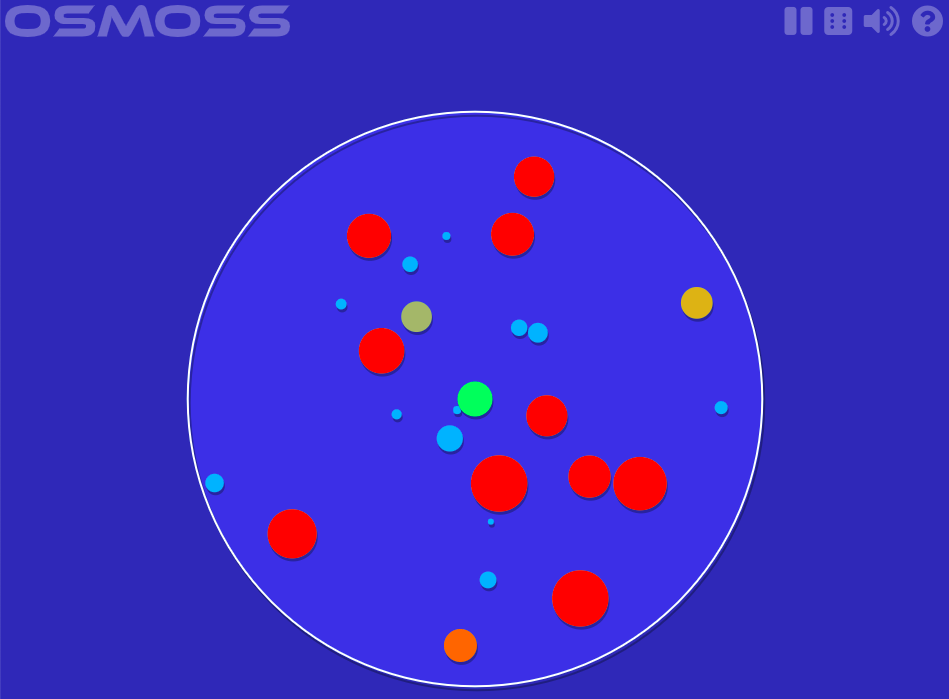
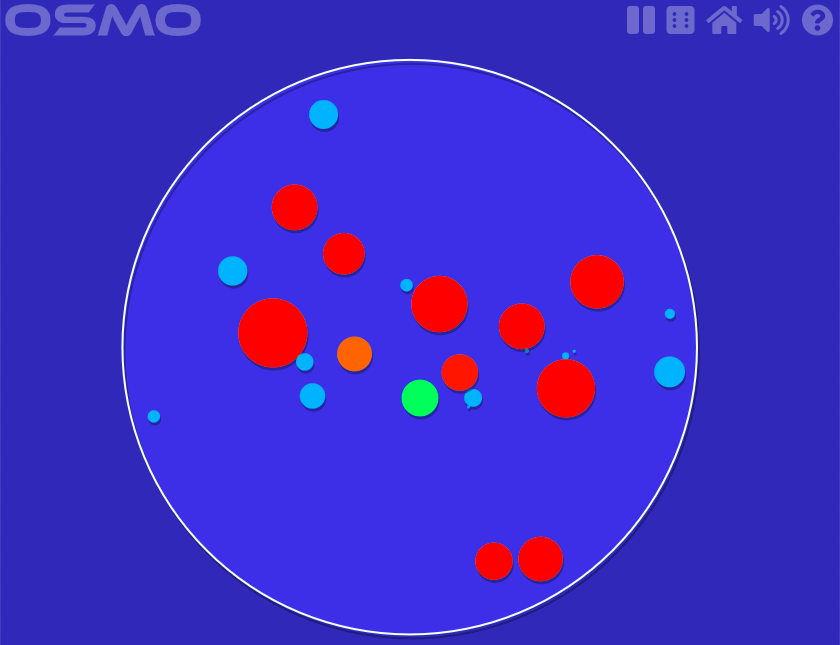
Rename osmoss -> osmo

diff --git a/public/index.html b/public/index.html
@@ -4,7 +4,7 @@
 <meta charset="UTF-8"/>
 <link rel="author" href="https://plus.google.com/105903021303554703114/"/>
 <meta name="viewport" content="width=450, user-scalable=no"/>
-<title>Osmoss</title>
+<title>Osmo</title>
 <link rel="shortcut icon" type="image/png" href="img/icon_16.png"/>
 <link rel="apple-touch-icon" sizes="128x128" href="img/icon_128.jpg"/>
 <link rel="stylesheet" href="css/font-awesome/css/all.min.css"/>
@@ -13,7 +13,7 @@
 <body>
 <script src="js/bundle.js"></script>
 <canvas id="canvas">Sorry, no canvas for you!</canvas>
-<img id="logo" src="img/logo.svg" alt="Osmoss" style="height: 2em;"/>
+<img id="logo" src="img/osmo.svg" alt="osmo" style="height: 2em;"/>
 <ul id="controls">
 	<li id="help" onclick="controls.help();"><i class="fas fa-2x fa-question-circle"></i><label>Help [H]</label></li>
 	<li id="mute" onclick="controls.mute();"><i class="fas fa-2x fa-volume-up"></i><label>Mute sounds [M]</label></li>
@@ -48,9 +48,9 @@
 					<p><span class="key">R</span> - Random new level</p>
 					<p><span class="key">S</span> - Show / hide shadow</p>
 				<h2>Open Source</h2>
-				<p>The source code to this game is on GitHub: <a href="https://github.com/stevenjoezhang/osmoss">Osmoss on GitHub</a></p>
+				<p>The source code to this game is on GitHub: <a href="https://github.com/stevenjoezhang/osmo">Osmo on GitHub</a></p>
 				<h2>Credits</h2>
-				<p>Osmoss is written and designed by <a href="http://stepheneisenhauer.com" target="_blank">Stephen Eisenhauer</a>, but inspired by an award-winning game called <a href="http://www.hemispheregames.com/osmos/" target="_blank">Osmos</a>, which is made by Hemisphere Games.</p>
+				<p>The Osmo game is forked from Browsmos, which is written and designed by <a href="http://stepheneisenhauer.com" target="_blank">Stephen Eisenhauer</a>, but inspired by an award-winning game called <a href="http://www.hemispheregames.com/osmos/" target="_blank">Osmos</a>, which is made by Hemisphere Games.</p>
 				<p>Osmos is a fantastic game, definitely worth checking out and buying!</p>
 				<p>Music is included from the <a href="http://ccmixter.org" target="_blank">ccMixter</a> community: <a href="http://ccmixter.org/files/Pitx/19513" name="Black Rainbow on ccMixter" target="_blank">"Black Rainbow"</a> by Pitx, and <a href="http://ccmixter.org/files/rewob/17808" name="Circles on ccMixter" target="_blank">"Circles"</a> by rewob.
 			</div>
@@ -62,7 +62,7 @@
 </div>
 <div id="menu" class="overlay">
 	<div class="center">
-		<img class="scale" src="img/logo.svg" alt="Osmoss" style="height: 4em;"/>
+		<img class="scale" src="img/logo.svg" alt="osmo" style="width: 100%;"/>
 		<h1>Enter your name</h1>
 		<input id="name" autocomplete="off" placeholder="An awesome name!"/>
 		<button id="multi" class="yellow" disabled="disabled">Play!</button>

diff --git a/README.md b/README.md
@@ -1,13 +1,10 @@
-# Osmoss
+# Osmo
 
 ## About
 
-Osmoss is a game the web browser, made entirely using HTML5, and inspired 
-heavily by the gameplay of Osmos.
+Osmo is a game the web browser, made entirely using HTML5, and inspired heavily by the gameplay of Osmos.
 
-The rules are simple; click to propel yourself around, and try to absorb 
-smaller cells until you become the biggest. Watch out for larger cells, or 
-they will absorb you!
+The rules are simple; click to propel yourself around, and try to absorb smaller cells until you become the biggest. Watch out for larger cells, or they will absorb you!
 
 ## Screenshots
 
@@ -17,9 +14,9 @@ they will absorb you!
 
 ```bash
 # Clone this repository
-git clone https://github.com/stevenjoezhang/osmoss.git
+git clone https://github.com/stevenjoezhang/osmo.git
 # Go into the repository
-cd osmoss
+cd osmo
 # Install dependencies
 npm install
 ```
@@ -44,7 +41,7 @@ npm run build
 
 ## License
 
-Osmoss is forked from [Browsmos](https://github.com/BHSPitMonkey/Browsmos).
+Osmo is forked from [Browsmos](https://github.com/BHSPitMonkey/Browsmos).
 
 > ### License
 > Any JavaScript sources within Browsmos are hereby licensed under the Simplified BSD License. You are free to modify and redistribute Browsmos, but, if you do, please:
